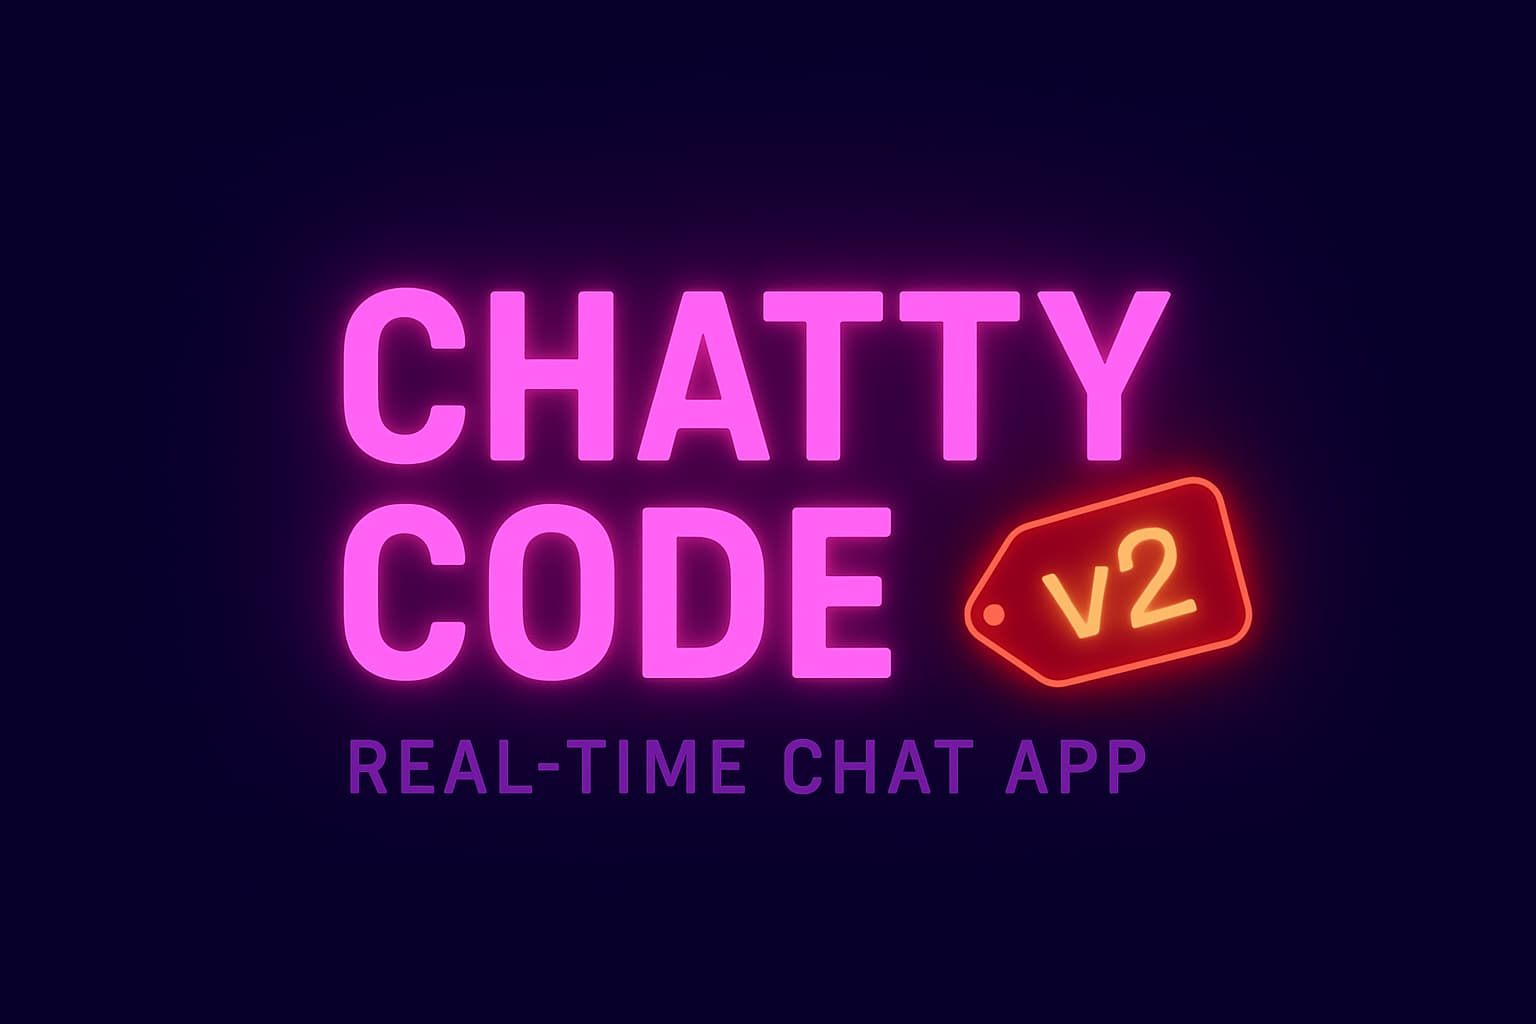
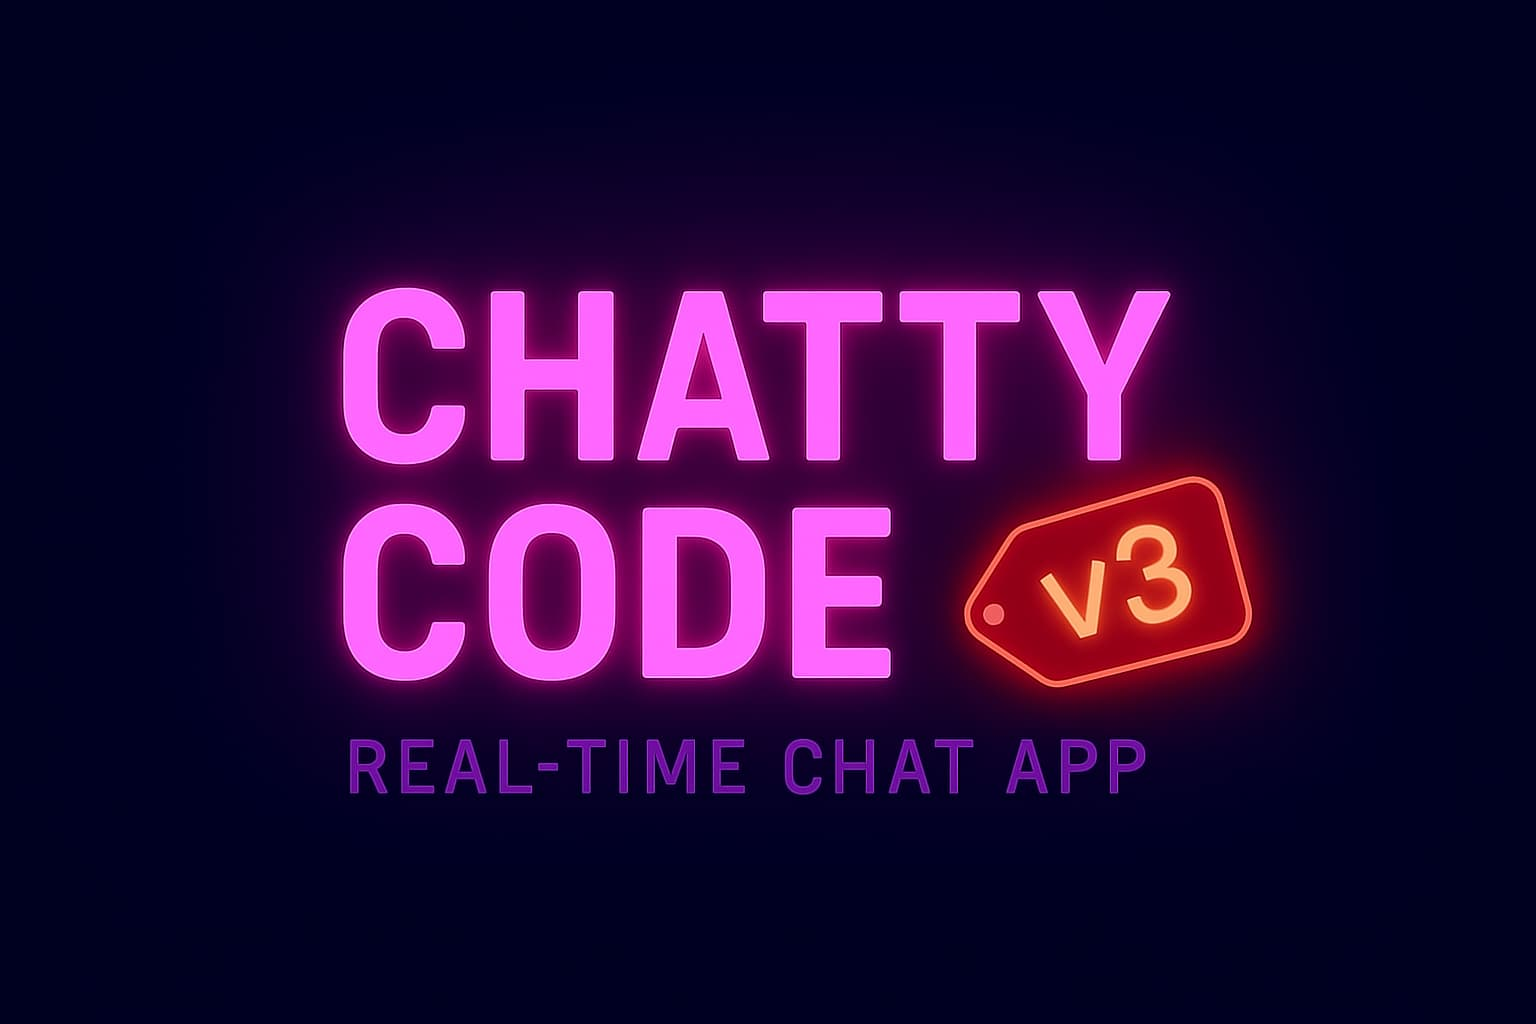
edit description

diff --git a/index.html b/index.html
@@ -7,7 +7,7 @@
     <meta property="og:title" content="Chatty Code — Real-time Chat App" />
     <meta
     property="og:description"
-    content="Chatty v2 — so‘nggi xabar va vaqti ko‘rsatiladi, o‘qilmagan xabarlar soni chiqadi, hamda o‘qilgan xabarlarni belgilash funksiyasi qo‘shildi."
+    content="Chatty v3 — responsive dizayn qo‘shildi (mobil qurilmalarda ishlatish qulay bo‘ldi). Shuningdek, contact tanlab chatga kirgandan keyin ortga qaytish tugmasi qo‘shildi."
     />
     <meta
       property="og:image"
